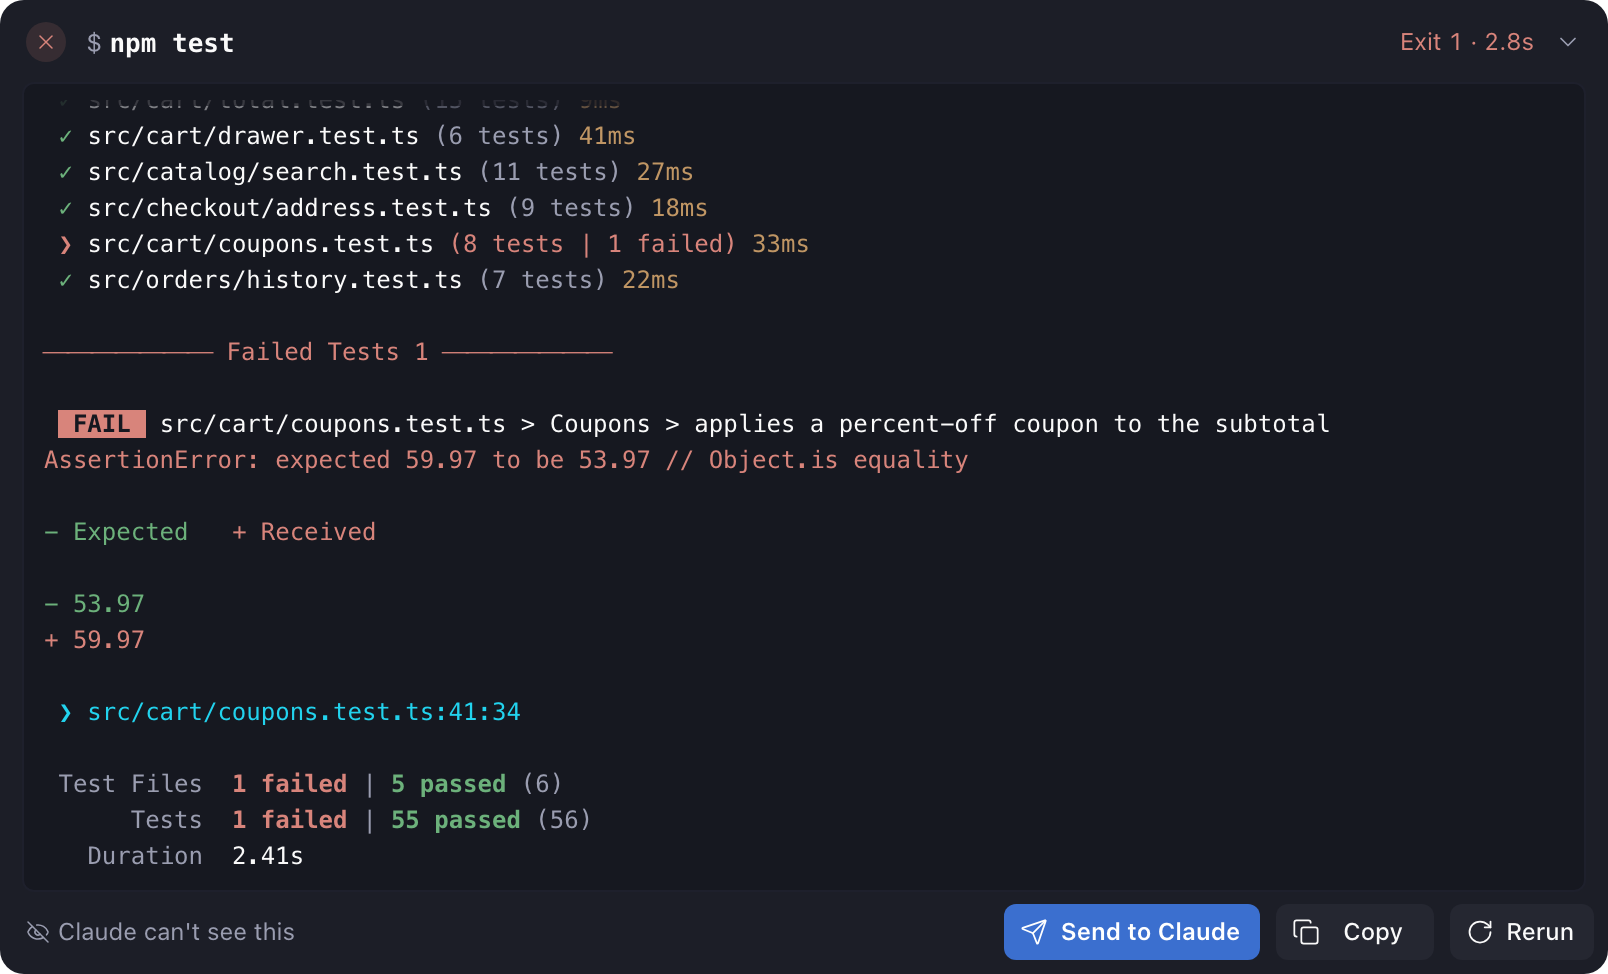
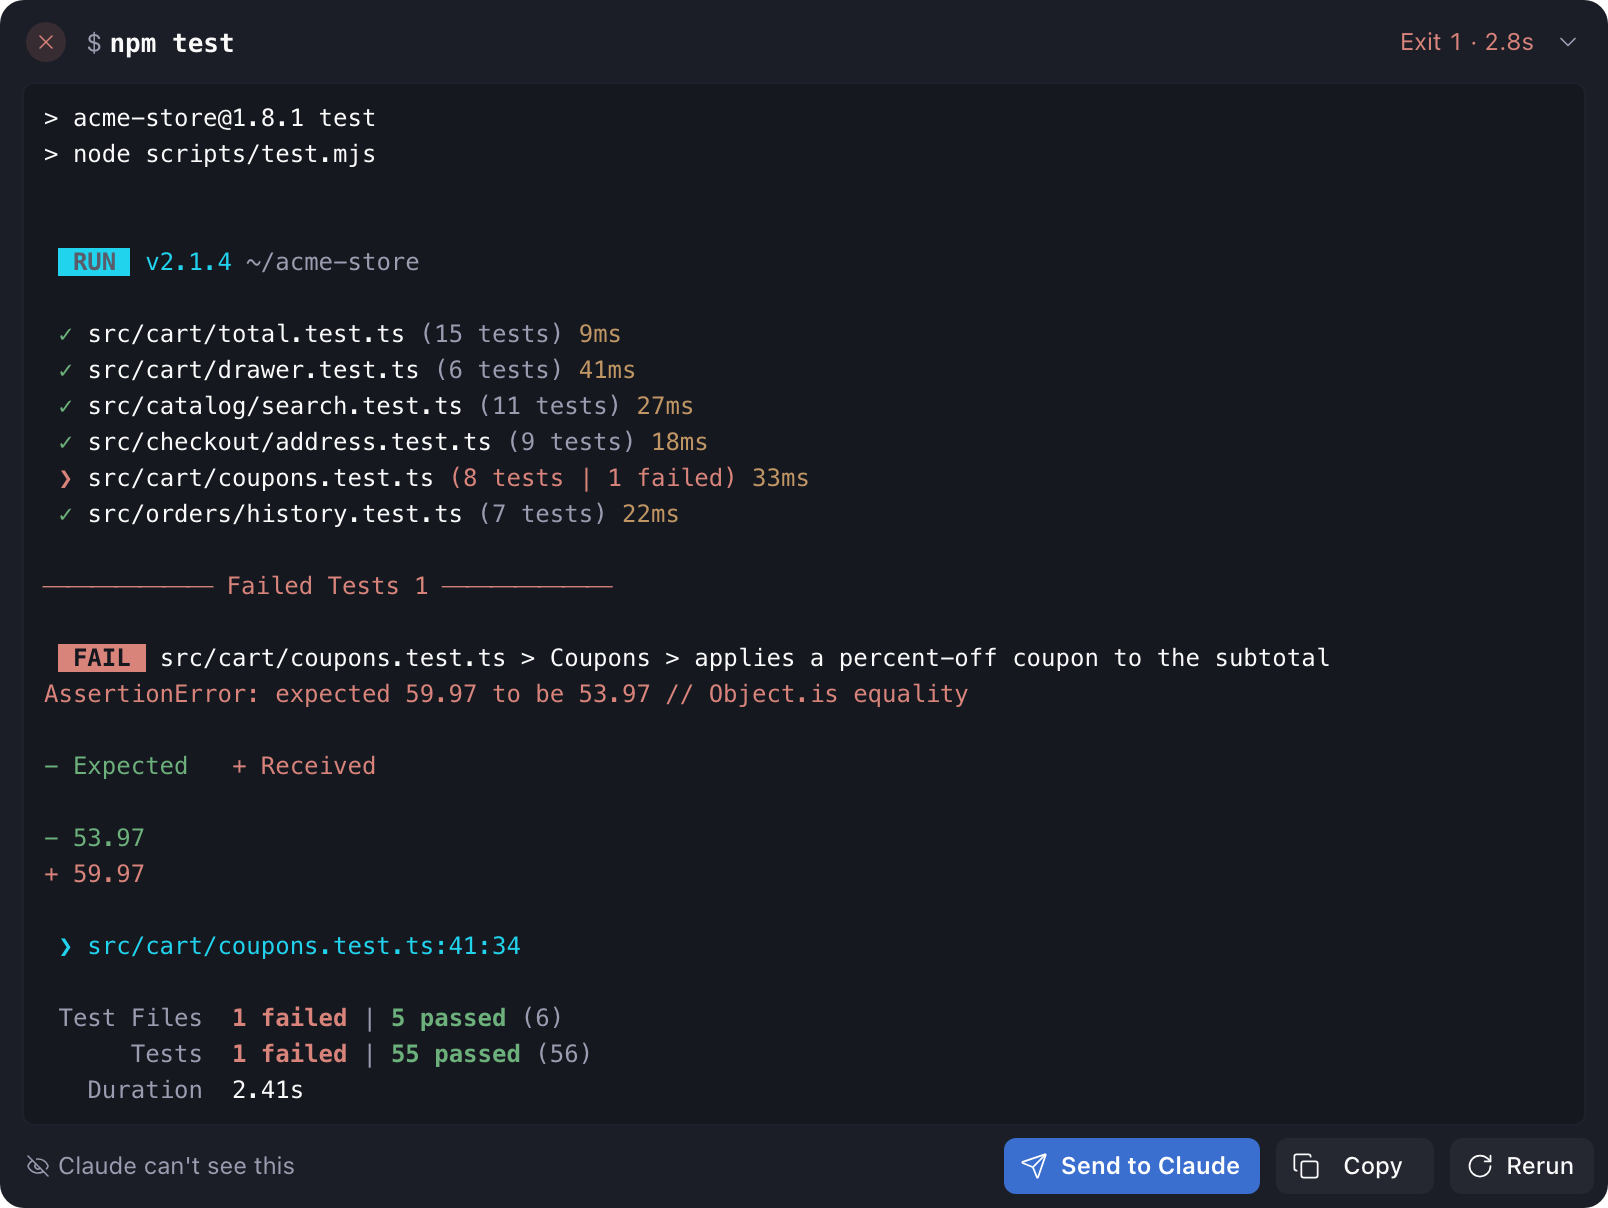
fix(shell-yeah): keep drawing output after a command clears the screen; taller expanded view
A wizard that cleared the screen made the output shorter, and the box took that
for scrolling up. It froze the view and hid Jump to latest, so a running command
looked stuck. The arrow in the header now makes the box up to 60% of the window.

diff --git a/shell-yeah/client/output.tsx b/shell-yeah/client/output.tsx
@@ -77,16 +77,18 @@ export function OutputWell({ lines: liveLines, skipped: liveSkipped, palette, co
   // last line; half a row at the top shows there is more above.
   return (
     <View style={[frame, { paddingVertical: WELL_PADDING_V }]} {...codeSurface()}>
-      <TailScroll maxHeight={(boxRows(tall ? LIMITS.tallBoxLines : rows, compact, screen.height) + 0.5) * LINE_HEIGHT} compact={compact} following={following} onFollowingChange={onFollowingChange} colors={colors} fadeColor={palette.well}>
+      <TailScroll maxHeight={(boxRows(rows, tall, compact, screen.height) + 0.5) * LINE_HEIGHT} compact={compact} following={following} onFollowingChange={onFollowingChange} colors={colors} fadeColor={palette.well}>
         <View style={{ paddingHorizontal: 10 }}>{body}</View>
       </TailScroll>
     </View>
   );
 }
 
-// On a phone a box never takes more than 40% of the screen, so a drag can still reach the chat.
-function boxRows(rows: number, compact: boolean, windowHeight: number): number {
-  return compact ? Math.max(4, Math.min(rows, Math.floor((0.4 * windowHeight) / LINE_HEIGHT))) : rows;
+// Made taller, the box takes up to 60% of the window, which leaves the card's header and buttons
+// in view. On a phone a box never takes more than 40%, so a drag can still reach the chat.
+function boxRows(rows: number, tall: boolean, compact: boolean, windowHeight: number): number {
+  if (compact) return Math.max(4, Math.min(tall ? LIMITS.tallBoxLines : rows, Math.floor((0.4 * windowHeight) / LINE_HEIGHT)));
+  return tall ? Math.max(LIMITS.tallBoxLines, Math.floor((0.6 * windowHeight) / LINE_HEIGHT)) : rows;
 }
 
 // Three bands of the well color over the half row at a cut edge, without gradient support.
@@ -111,7 +113,6 @@ function TailScroll({ children, maxHeight, compact, following, onFollowingChange
   fadeColor: string;
 }) {
   const ref = useRef<NativeScrollView>(null);
-  const [away, setAway] = useState(false);
   const [scrolled, setScrolled] = useState(false);
   // The last known geometry. `content` is the height before the newest output landed.
   const metrics = useRef({ offset: 0, viewport: 0, content: 0 });
@@ -126,11 +127,10 @@ function TailScroll({ children, maxHeight, compact, following, onFollowingChange
     return offset + viewport >= m.content - LINE_HEIGHT;
   };
   const onContentSizeChange = (_width: number, height: number) => {
-    if (metrics.current.content === 0) ref.current?.scrollToEnd({ animated: false });
-    else if (following) {
-      if (atBottom()) ref.current?.scrollToEnd({ animated: false });
-      else onFollowingChange(false);
-    }
+    // Output that got shorter, as when the command clears the screen, wasn't scrolled away from.
+    const shrank = height < metrics.current.content;
+    if (metrics.current.content === 0 || (following && (shrank || atBottom()))) ref.current?.scrollToEnd({ animated: false });
+    else if (following) onFollowingChange(false);
     metrics.current.content = height;
   };
   useEffect(() => {
@@ -140,7 +140,6 @@ function TailScroll({ children, maxHeight, compact, following, onFollowingChange
     const { contentOffset, contentSize, layoutMeasurement } = event.nativeEvent;
     metrics.current = { offset: contentOffset.y, viewport: layoutMeasurement.height, content: contentSize.height };
     const bottom = contentOffset.y + layoutMeasurement.height >= contentSize.height - LINE_HEIGHT;
-    setAway(!bottom);
     setScrolled(contentOffset.y > 0);
     if (bottom !== following) onFollowingChange(bottom);
   };
@@ -150,8 +149,8 @@ function TailScroll({ children, maxHeight, compact, following, onFollowingChange
         {children}
       </ScrollView>
       {scrolled ? <EdgeFade color={fadeColor} edge="top" /> : null}
-      {away ? <EdgeFade color={fadeColor} edge="bottom" /> : null}
-      {away ? (
+      {following ? null : <EdgeFade color={fadeColor} edge="bottom" />}
+      {following ? null : (
         <View style={{ position: "absolute", end: 8, bottom: 0 }}>
           <Button
             icon="ArrowDown"
@@ -165,7 +164,7 @@ function TailScroll({ children, maxHeight, compact, following, onFollowingChange
             onPress={() => { onFollowingChange(true); ref.current?.scrollToEnd({ animated: false }); }}
           />
         </View>
-      ) : null}
+      )}
     </View>
   );
 }

diff --git a/shell-yeah/README.md b/shell-yeah/README.md
@@ -17,7 +17,7 @@ Type `/sh npm test` and press Enter. A card appears in the chat:
 
 <img src="images/2-running.png" alt="A /sh npm run build card while it runs, with a live progress bar" width="600">
 
-The output box holds the last 300 lines and stays on the newest one while the command runs. Scroll up for earlier lines; **Jump to latest** brings you back. The arrow in the header makes the box taller. **Copy** copies everything the plugin kept, up to 10,000 lines.
+The output box holds the last 300 lines and stays on the newest one while the command runs. Scroll up for earlier lines; **Jump to latest** brings you back. The arrow in the header makes the box taller, up to 60% of the window. **Copy** copies everything the plugin kept, up to 10,000 lines.
 
 <img src="images/6-expanded.png" alt="The failed npm test card made taller to show more lines" width="600">
 
